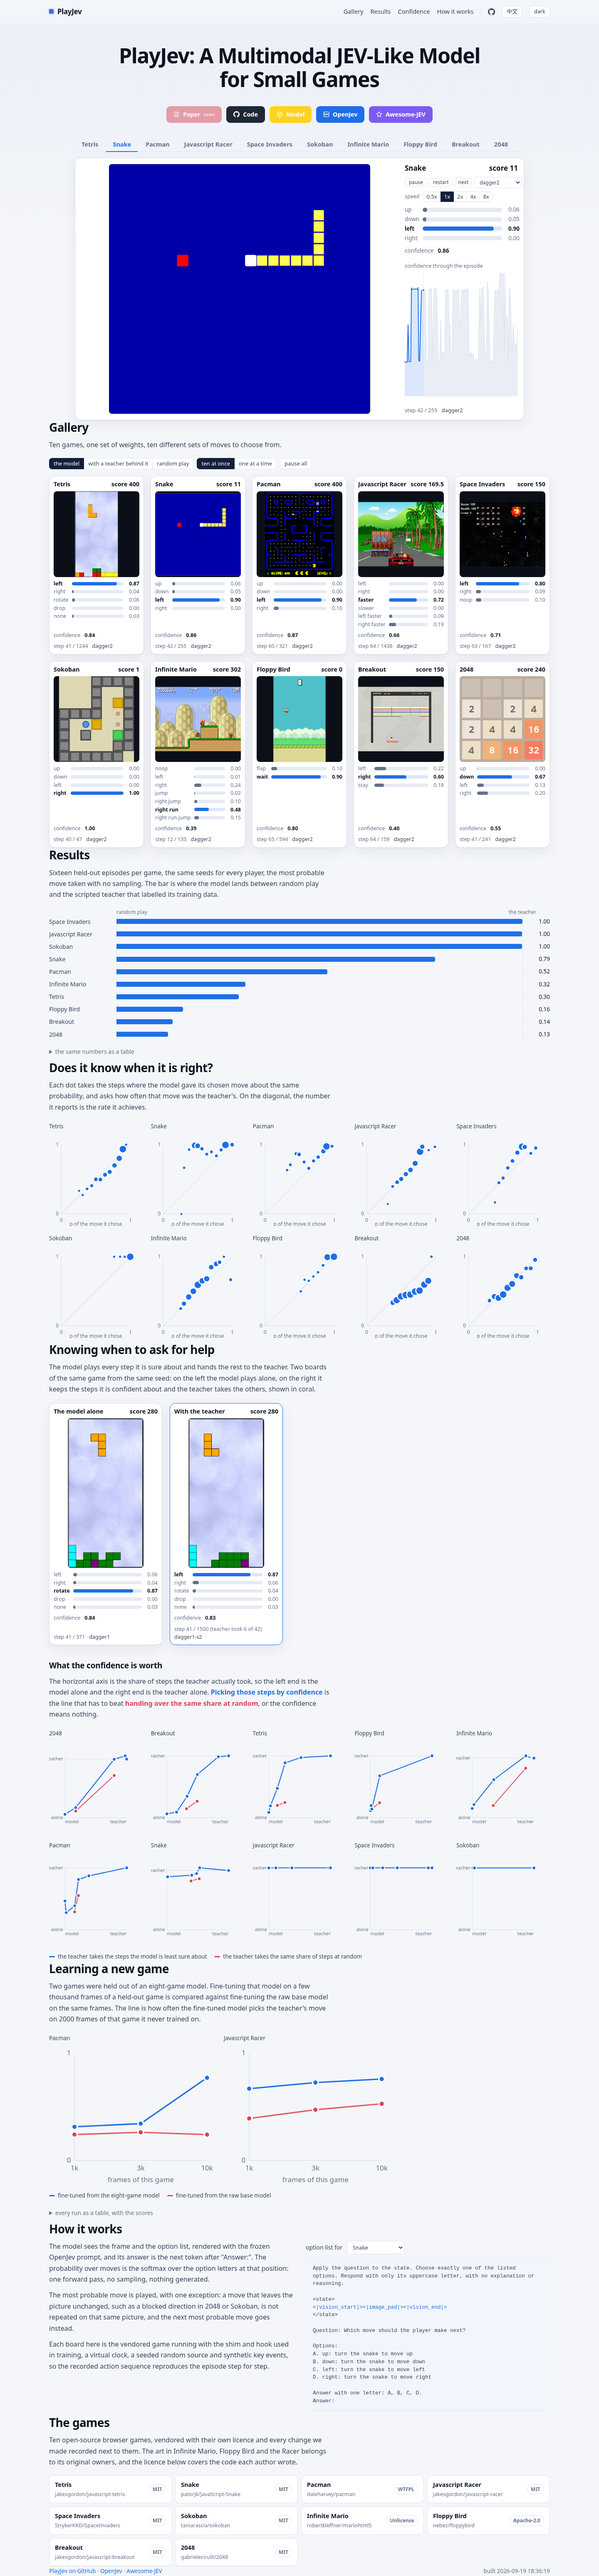
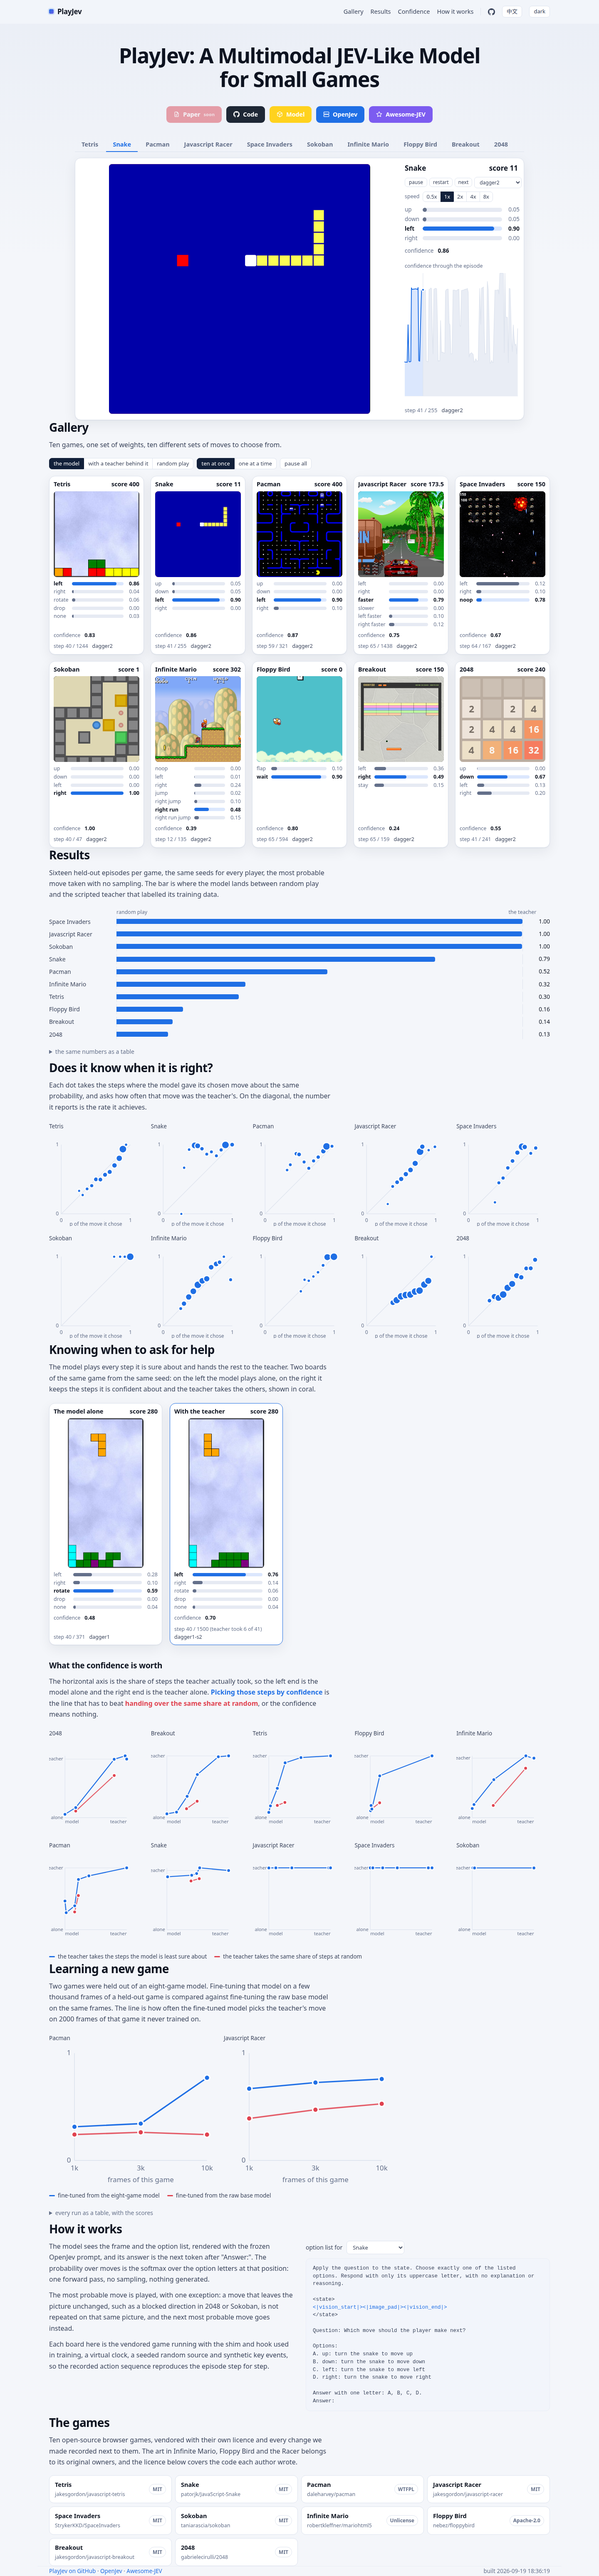
demo: tiles fill the frame

Changed region(s): [[0.0625, 0.1872, 0.75, 0.3119], [0.7812, 0.1872, 0.9062, 0.2184], [0.4375, 0.1872, 0.5625, 0.2184]]

diff --git a/demo/demo.js b/demo/demo.js
@@ -159,6 +159,11 @@
     for (const t of tiles) if (t.iframe && ev.source === t.iframe.contentWindow) { t.onMessage(m); return; }
   });
 
+  // A grid tile is square and no game is: the picture fills it and the long side runs off the edge, instead of
+  // parking the game between two black bars. This is which part stays when it does, 0 the top, 1 the bottom.
+  // The featured board is the game's own shape, so it always shows the whole picture.
+  const FILL_Y = { tetris: 1, flappy: .2, pacman: .54, '2048': .62 };
+
   class Tile {
     constructor(game, entries, opts) {
       opts = opts || {};
@@ -293,8 +298,10 @@
       const r = this.rect || { x: 0, y: 0, w: this.game.viewport.width, h: this.game.viewport.height };
       if (this.free) this.root.style.setProperty('--ar', (r.w / r.h).toFixed(4));
       const BW = this.view.clientWidth || 200, BH = this.view.clientHeight || BW;
-      const s = Math.min(BW / r.w, BH / r.h);
-      const tx = (BW - r.w * s) / 2 - r.x * s, ty = (BH - r.h * s) / 2 - r.y * s;
+      const fill = !this.free;
+      const s = fill ? Math.max(BW / r.w, BH / r.h) : Math.min(BW / r.w, BH / r.h);
+      const ay = fill && FILL_Y[this.game.id] != null ? FILL_Y[this.game.id] : 0.5;
+      const tx = (BW - r.w * s) / 2 - r.x * s, ty = (BH - r.h * s) * ay - r.y * s;
       const V = this.game.viewport;
       // Only the game area shows; the rest of the game page (menus, footers, score panels) is clipped away.
       this.iframe.style.clipPath = `inset(${r.y.toFixed(2)}px ${(V.width - r.x - r.w).toFixed(2)}px ${(V.height - r.y - r.h).toFixed(2)}px ${r.x.toFixed(2)}px)`;
@@ -305,7 +312,7 @@
       {
         const vb = this.view.getBoundingClientRect(), ib = this.iframe.getBoundingClientRect();
         const dx = (vb.left + (BW - r.w * s) / 2) - (ib.left + r.x * s);
-        const dy = (vb.top + (BH - r.h * s) / 2) - (ib.top + r.y * s);
+        const dy = (vb.top + (BH - r.h * s) * ay) - (ib.top + r.y * s);
         if (Math.abs(dx) > 0.5 || Math.abs(dy) > 0.5) {
           this.iframe.style.transform = `translate(${(tx + dx).toFixed(2)}px, ${(ty + dy).toFixed(2)}px) scale(${s.toFixed(5)})`;
         }
